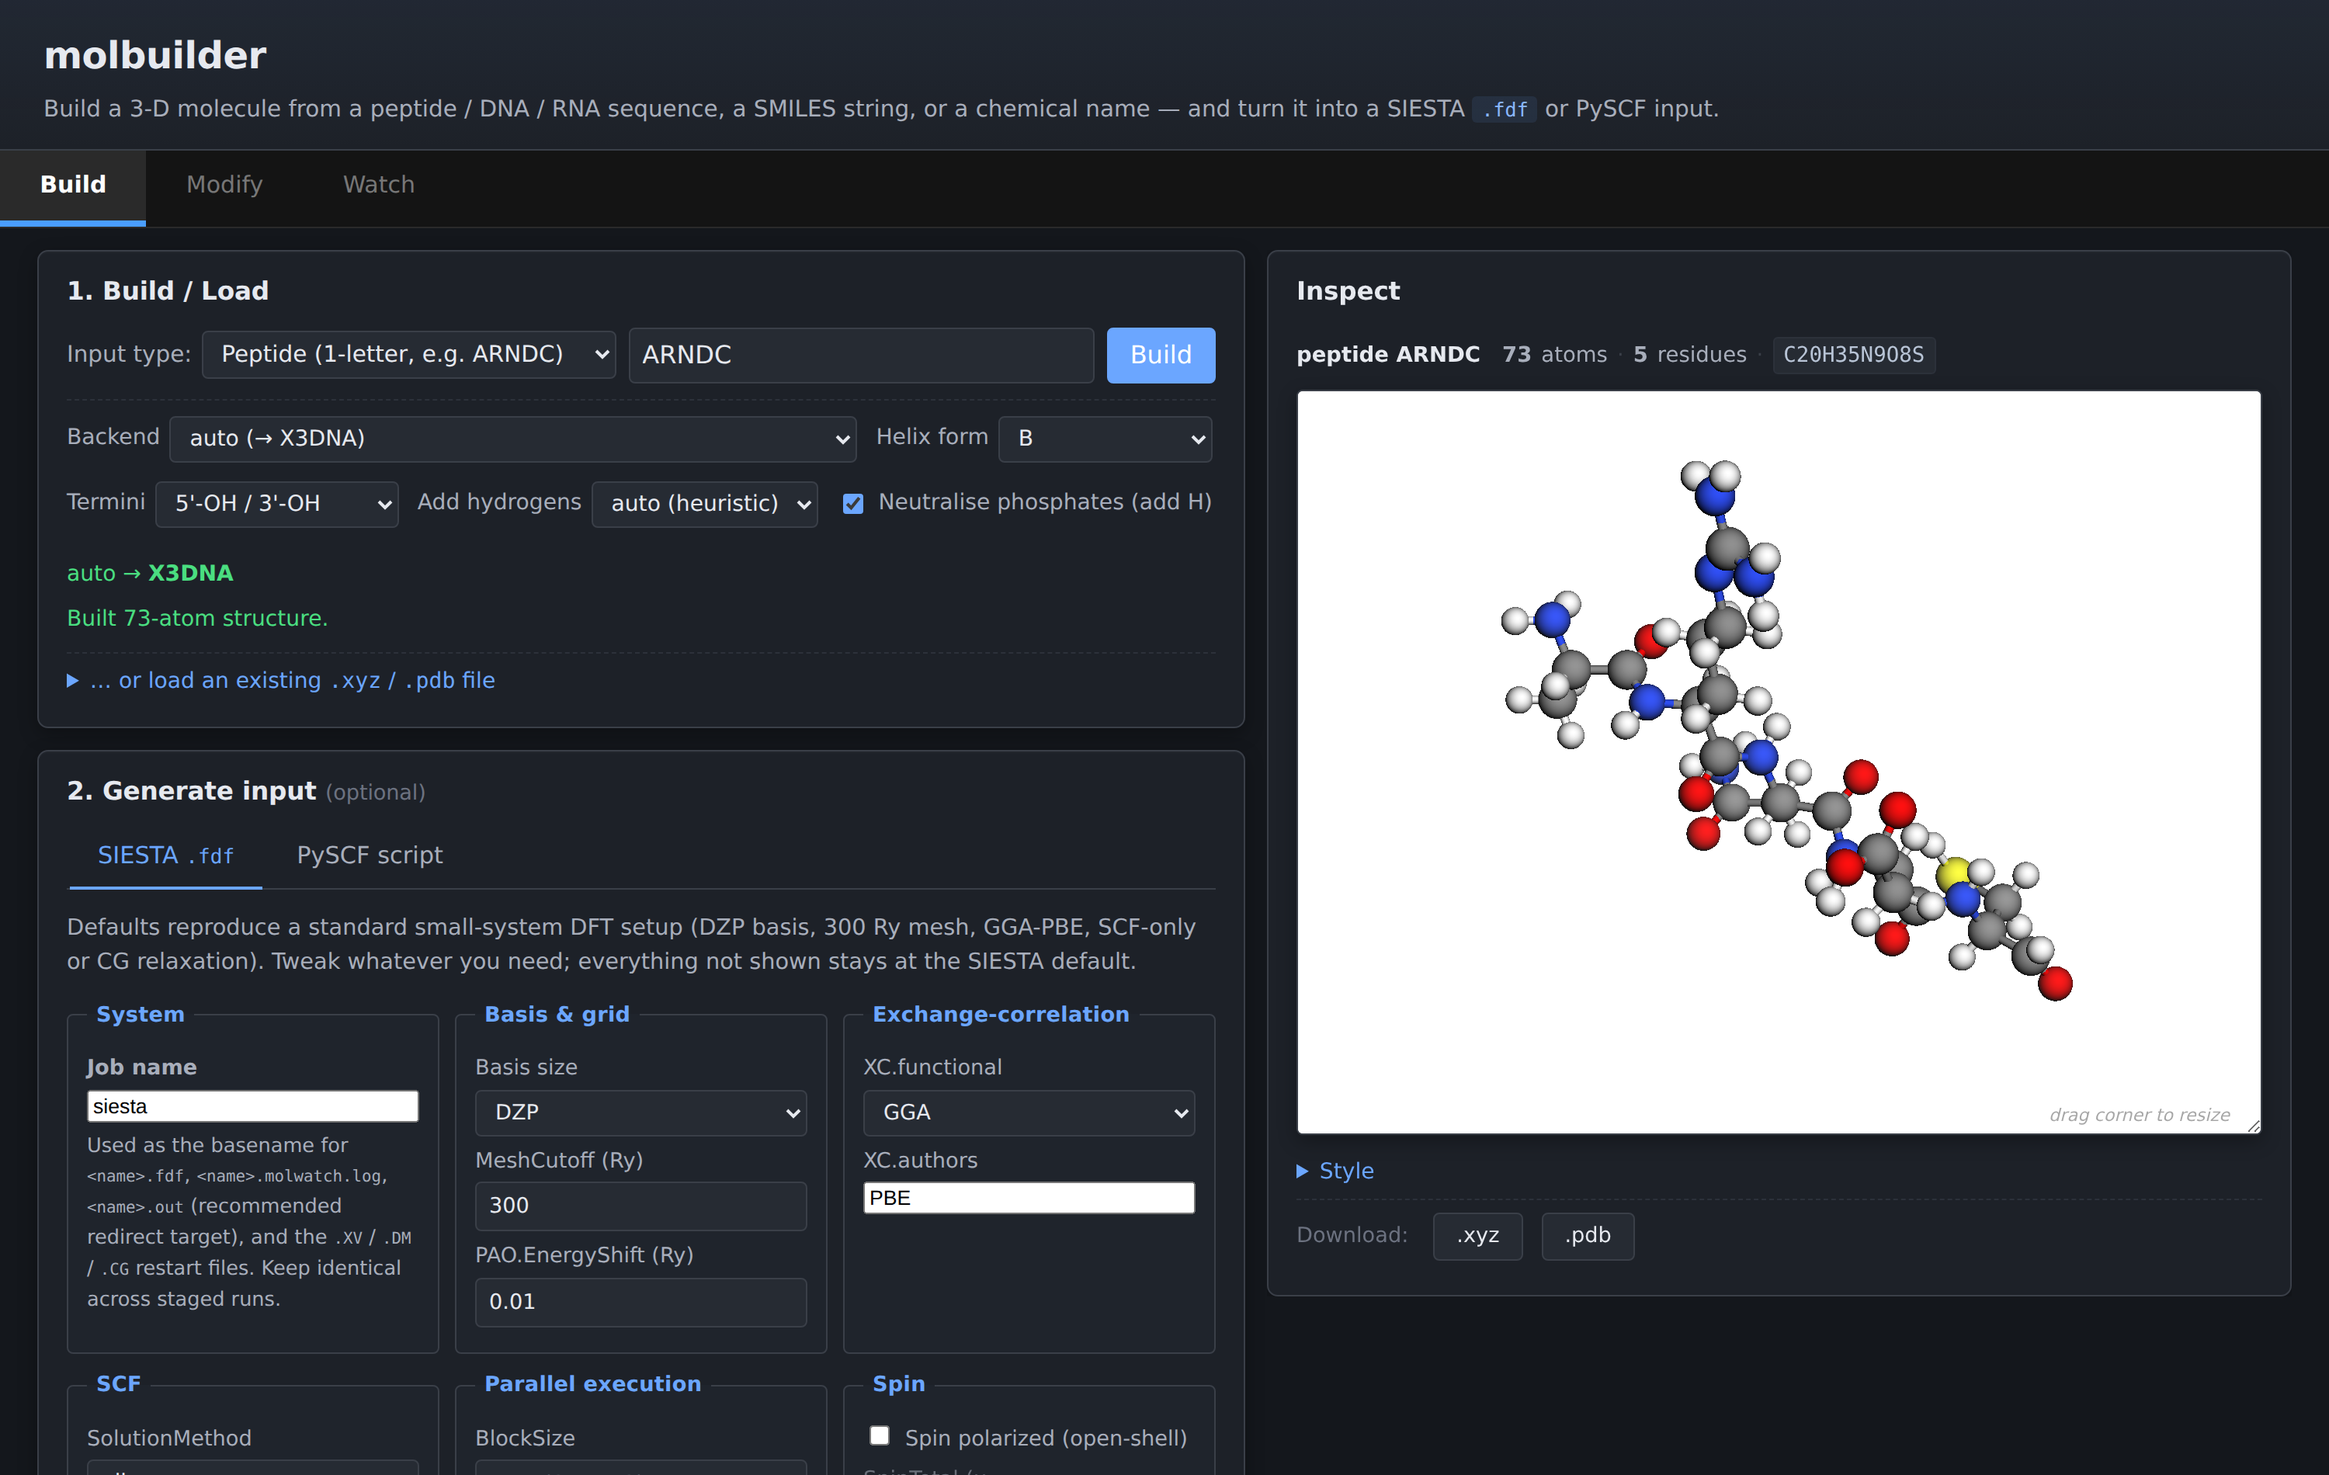
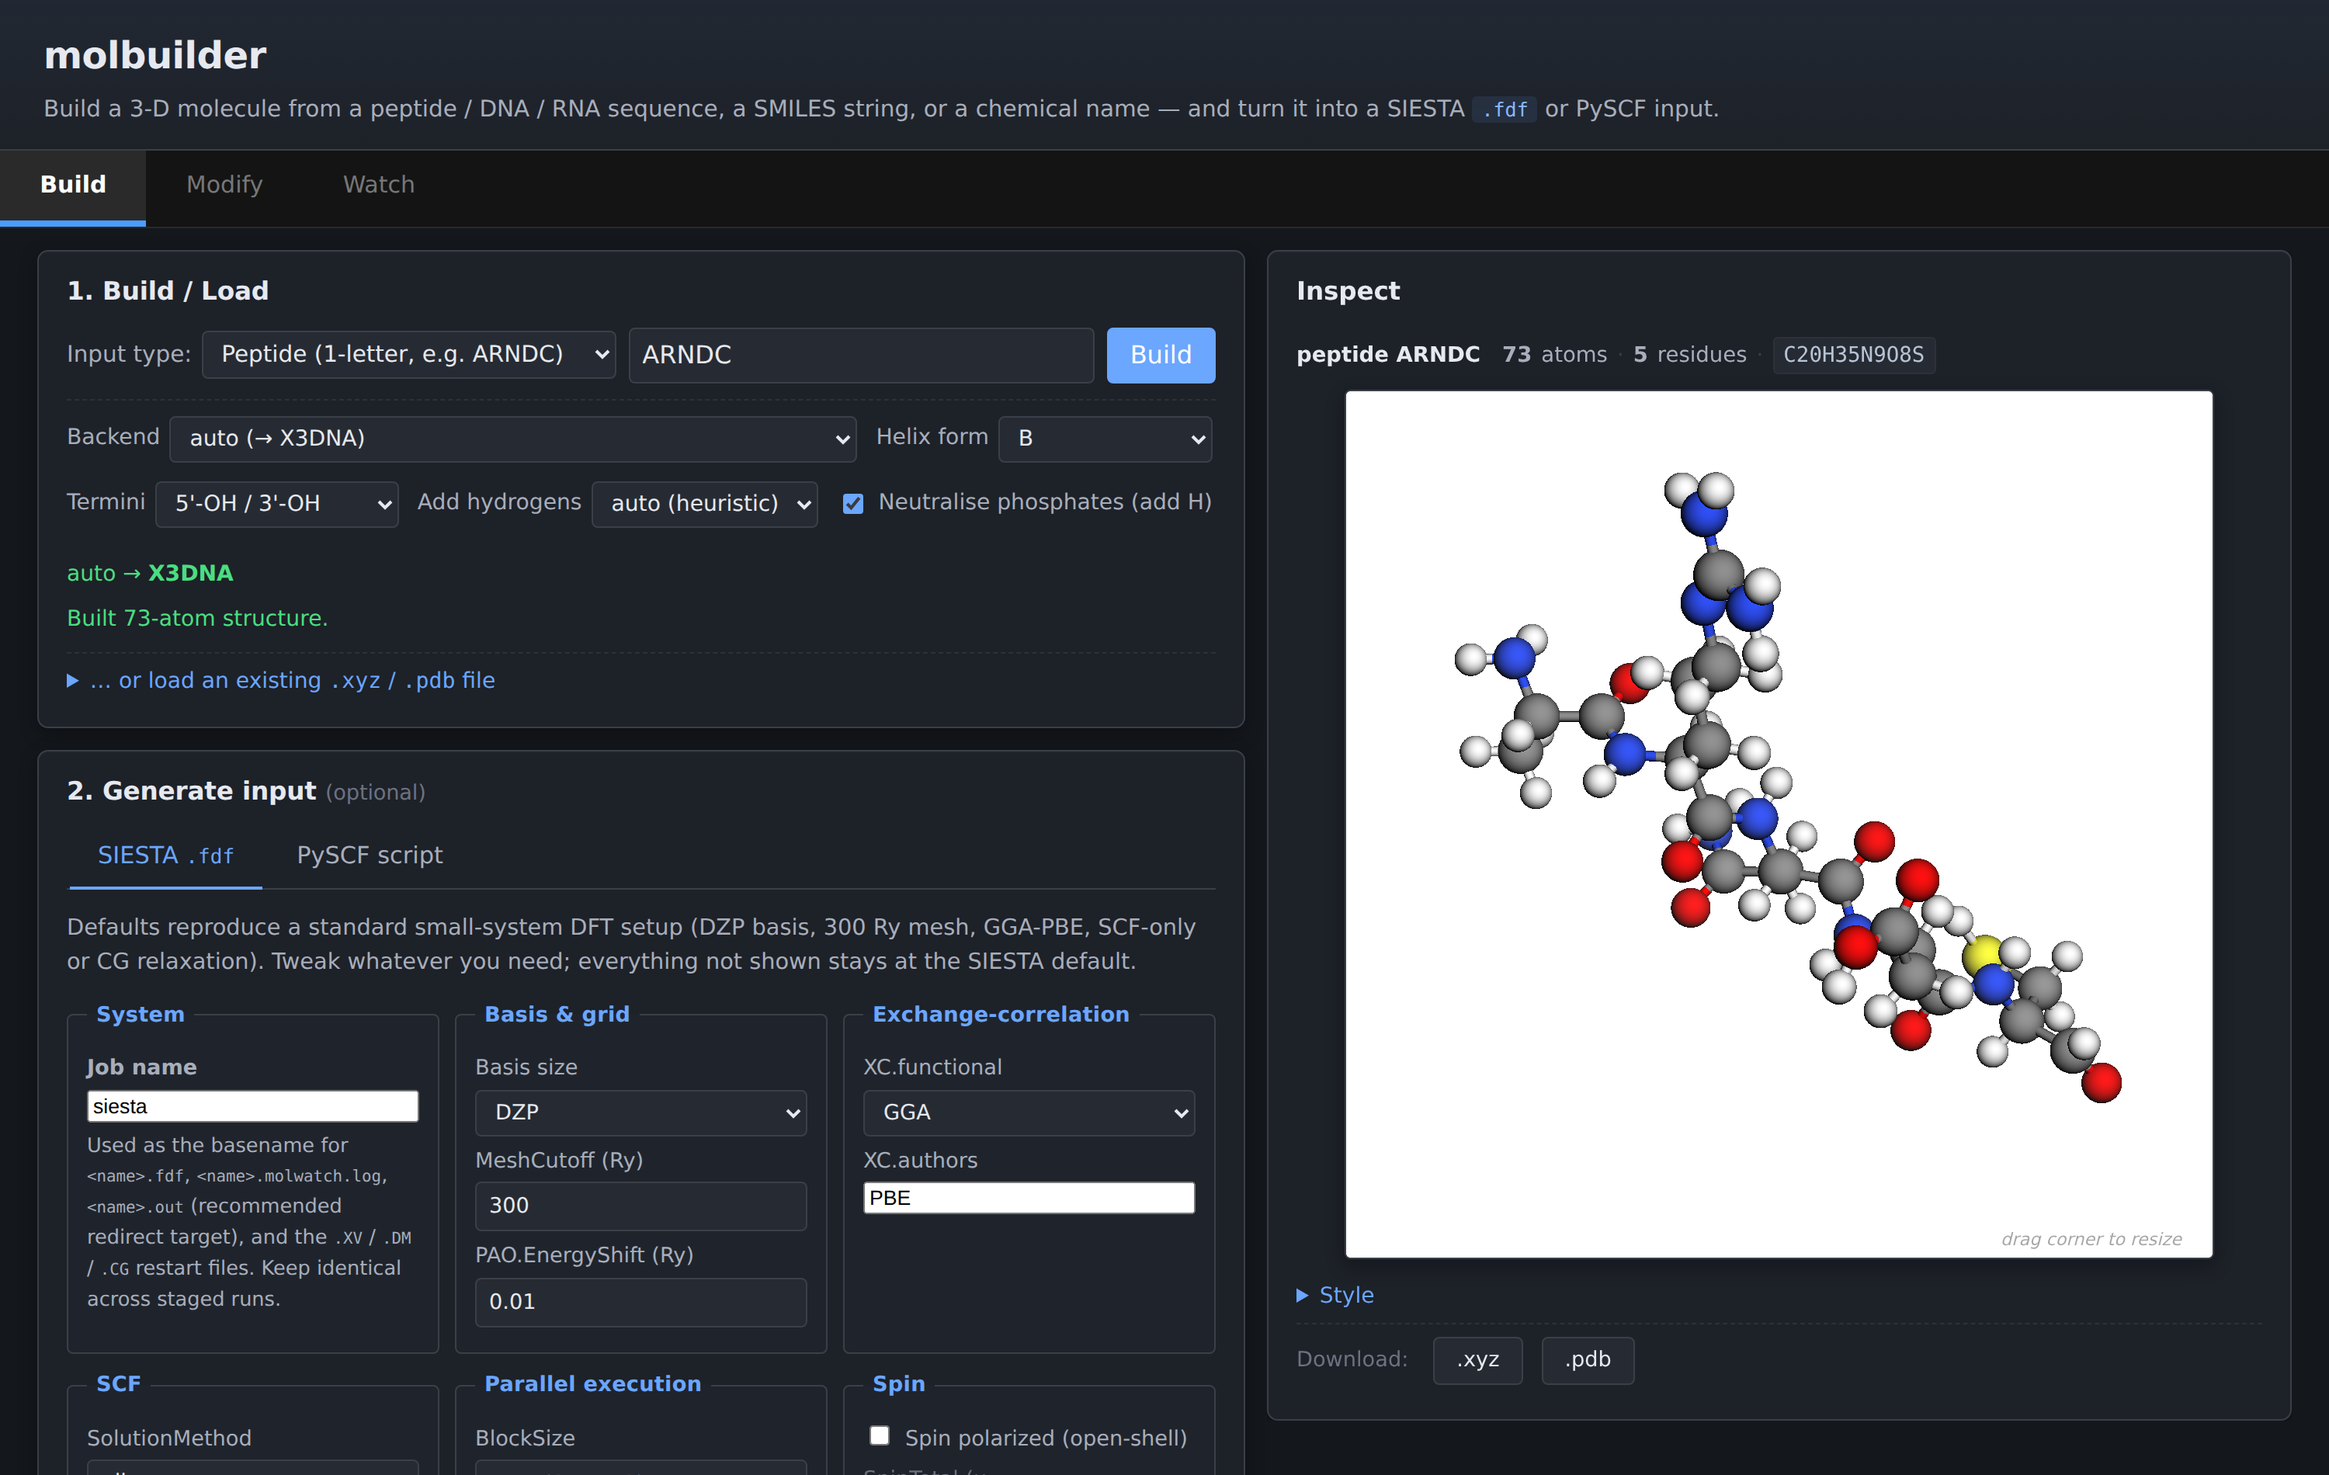
UI: 1-based atom indices everywhere; square viewers (1:1, 320-560 px)
Two consistency issues the user spotted, fixed together.

Atom indexing (1-based across the board)
---------------------------------------
Before:
- Watch Overlays: 1-based ``i + 1`` labels
- Watch Inspect list: 0-based ``i``                  <- inconsistent
- Modify viewer overlay: 0-based ``i``               <- inconsistent
- Modify atom-list table: 0-based ``${i}``           <- inconsistent
- Modify selection readout: 0-based ``#${i}``        <- inconsistent
- Modify selection-info row: 0-based ``${i}``        <- inconsistent
- Modify anchor / orient / electrode readouts: 0-based <- inconsistent
- Build viewer overlay: 1-based

Now every user-facing index across Build / Modify / Watch is
1-based -- matches the Build overlay, matches PDB / SIESTA
convention, matches what tools the user is likely cross-referencing
against.  The Python API + wire JSON stay 0-based (anchor_index,
indices: [...], atom.serial, state.selected, dataset.atomIndex);
the JS UI converts at the boundary with ``i + 1`` exactly at the
display site.

Updated tests: ``test_clicking_row_highlights_row_and_viewer``
asserts "#2 H" instead of "#1 H" (0-based atom 1 -> displayed 2);
``test_selection_info_panel_shows_picked_atom_coords`` asserts the
# column shows "2" instead of "1"; ``test_orient_button_enabled..."
expects "#1" and "#3" instead of "#0" and "#2".

Spec docs/spec/modify-tab.md § "Data model invariants" rewritten:
"0-based in the Python API and the wire JSON; 1-based on every
[…]

Changed region(s): [[0.558, 0.2484, 0.992, 0.9316], [0.62, 0.9005, 0.651, 0.9316]]

diff --git a/molbuilder/web/static/modify/viewer.js b/molbuilder/web/static/modify/viewer.js
@@ -116,10 +116,15 @@
         clearIndexLabels();
         if (!$("show-indices").checked) return;
         // 3Dmol's selectedAtoms returns the atom records (with x/y/z and
-        // serial).  Label every atom with its 0-based index.
+        // serial).  Label every atom with its 1-based index (matches
+        // the atom-list table, the selection-info table, the Build
+        // viewer's overlay, and PDB/SIESTA conventions).  The Python
+        // API uses 0-based indices; we convert at the UI boundary
+        // (see ``onViewerAtomClick`` for the click->state.selected
+        // direction).
         const atoms = viewer.selectedAtoms({});
         atoms.forEach((a, i) => {
-            const lbl = viewer.addLabel(String(i), {
+            const lbl = viewer.addLabel(String(i + 1), {
                 position: { x: a.x, y: a.y, z: a.z },
                 backgroundColor: "rgba(0,0,0,0.55)",
                 fontColor: "white",
@@ -267,9 +272,14 @@
         tbody.innerHTML = "";
         for (let i = 0; i < state.n_atoms; i++) {
             const tr = document.createElement("tr");
+            // Internal: ``dataset.atomIndex`` stays 0-based (matches
+            // 3Dmol's atom.serial, the Python API's anchor_index,
+            // and ``state.selected``).  The DISPLAYED ``#`` column
+            // is 1-based to match PDB / SIESTA convention and the
+            // viewer overlay.  Click handler uses the 0-based int.
             tr.dataset.atomIndex = String(i);
             tr.innerHTML = `
-                <td class="col-idx">${i}</td>
+                <td class="col-idx">${i + 1}</td>
                 <td class="col-el">${state.elements[i] || ""}</td>
                 <td class="col-name">${state.atom_names[i] || ""}</td>
                 <td class="col-res">${formatResidue(i)}</td>
@@ -308,7 +318,11 @@
         if (!sel.length) {
             out.textContent = "No atoms selected.";
         } else {
-            const parts = sel.map((i) => `#${i} ${state.elements[i]}`);
+            // User-facing labels are 1-based (matches the atom-list
+            // table, the viewer overlay, and PDB/SIESTA convention).
+            const parts = sel.map(
+                (i) => `#${i + 1} ${state.elements[i]}`
+            );
             out.textContent = parts.join(", ");
         }
         const infoTable = $("selection-info");
@@ -321,7 +335,7 @@
                     const p  = state.positions[i] || [0, 0, 0];
                     const tr = document.createElement("tr");
                     tr.innerHTML = `
-                        <td class="col-idx">${i}</td>
+                        <td class="col-idx">${i + 1}</td>
                         <td class="col-el">${state.elements[i] || ""}</td>
                         <td class="col-name">${state.atom_names[i] || ""}</td>
                         <td class="col-res">${formatResidue(i)}</td>
@@ -353,7 +367,7 @@
                 const a = sel[0];
                 addBtn.disabled = locked;
                 anchorReadout.textContent =
-                    `Anchor: #${a} ${state.elements[a]}`;
+                    `Anchor: #${a + 1} ${state.elements[a]}`;
             } else {
                 addBtn.disabled = true;
                 anchorReadout.textContent =
@@ -370,8 +384,8 @@
                 const [a, b] = sel.slice().sort((x, y) => x - y);
                 orientBtn.disabled = locked;
                 orientReadout.textContent =
-                    `Anchors: #${a} ${state.elements[a]} → ` +
-                    `#${b} ${state.elements[b]}`;
+                    `Anchors: #${a + 1} ${state.elements[a]} → ` +
+                    `#${b + 1} ${state.elements[b]}`;
             } else {
                 orientBtn.disabled = true;
                 orientReadout.textContent =
@@ -403,7 +417,7 @@
                 if (sel.length === 1) {
                     elcBtn.disabled = locked;
                     elcReadout.textContent =
-                        `Anchor: #${sel[0]} ${state.elements[sel[0]]}.  ` +
+                        `Anchor: #${sel[0] + 1} ${state.elements[sel[0]]}.  ` +
                         `Side determines which face the slab grows on.`;
                 } else {
                     elcBtn.disabled = true;
@@ -422,8 +436,8 @@
                 } else if (sel.length === 2) {
                     const [a, b] = sel.slice().sort((x, y) => x - y);
                     elcReadout.textContent =
-                        `Legacy mode: slabs flank #${a} ${state.elements[a]} `
-                        + `↔ #${b} ${state.elements[b]} `
+                        `Legacy mode: slabs flank #${a + 1} ${state.elements[a]} `
+                        + `↔ #${b + 1} ${state.elements[b]} `
                         + "(midpoint of the two anchors).";
                 } else {
                     elcBtn.disabled = true;

diff --git a/molbuilder/web/static/watch/viewer.js b/molbuilder/web/static/watch/viewer.js
@@ -370,7 +370,9 @@
         const fmt = (idx) => {
             const r = frame[idx];
             if (!r) return "—";
-            return "#" + idx + " " + r[0]
+            // Display 1-based to match the Overlays tab's index labels
+            // and the atom-list table; internal idx stays 0-based.
+            return "#" + (idx + 1) + " " + r[0]
                 + "  (" + r[1].toFixed(3)
                 + ", " + r[2].toFixed(3)
                 + ", " + r[3].toFixed(3) + ") Å";
@@ -451,9 +453,12 @@
         for (let i = 0; i < frame.length; i++) {
             const r = frame[i];
             const tr = document.createElement("tr");
+            // dataset.atomIndex stays 0-based (matches state.pickedAtoms
+            // and 3Dmol's atom.serial); the displayed ``#`` column is
+            // 1-based to match the overlay labels in the Overlays tab.
             tr.dataset.atomIndex = String(i);
             tr.innerHTML =
-                '<td class="col-idx">' + i + '</td>' +
+                '<td class="col-idx">' + (i + 1) + '</td>' +
                 '<td class="col-el">'  + (r[0] || "?") + '</td>' +
                 '<td class="col-coord">' + r[1].toFixed(2) + '</td>' +
                 '<td class="col-coord">' + r[2].toFixed(2) + '</td>' +

diff --git a/molbuilder/web/static/style.css b/molbuilder/web/static/style.css
@@ -377,17 +377,20 @@ button.primary:disabled,
     border: 1px solid var(--border-soft);
 }
 
-/* Resizable viewer container -- 3Dmol canvas lives inside.
- * We deliberately render the canvas with its own background so the
- * dark UI doesn't shine through (chemistry viewers are usually nicer
- * against a neutral bg). */
+/* Fixed-aspect viewer container -- 3Dmol canvas lives inside.  The
+ * 1:1 aspect ratio is consistent across Build / Modify / Watch so
+ * the user gets a predictable square no matter which tab they're on;
+ * min-height / max-height keep the panel in a comfortable navigation
+ * range (never tiny, never dominates the viewport).  We deliberately
+ * render the canvas with a neutral background so the dark UI doesn't
+ * shine through (chemistry viewers read better against white).  */
 .viewer-wrap {
     width: 100%;
-    height: 480px;
+    max-width: 560px;
+    aspect-ratio: 1 / 1;
     min-height: 320px;
-    min-width: 280px;
-    max-width: 100%;
-    resize: both;
+    max-height: min(60vh, 560px);
+    margin: 0 auto;
     overflow: hidden;
     border: 1px solid var(--border-strong);
     border-radius: var(--radius-sm);

diff --git a/molbuilder/web/static/watch/style.css b/molbuilder/web/static/watch/style.css
@@ -148,9 +148,17 @@ main {
     align-items: start;
 }
 
+/* Square viewer, consistent with Build + Modify (aspect-ratio 1:1,
+ * 320 - 560 px clamped to 60vh).  The right-hand .controls aside
+ * tracks the same vertical extent so the two panels align top + bot.
+ */
 #viewer {
     width: 100%;
-    height: var(--viewer-height);
+    max-width: 560px;
+    aspect-ratio: 1 / 1;
+    min-height: 320px;
+    max-height: min(60vh, 560px);
+    margin: 0 auto;
     border: 1px solid var(--border-strong);
     background: #ffffff;         /* same white bg as builder's viewer-wrap */
     position: relative;
@@ -165,7 +173,12 @@ main {
     display: flex;
     flex-direction: column;
     gap: 0;
+    /* Match the viewer's height clamp so the right aside aligns with
+     * the square viewer panel.  ``--viewer-height`` is kept as the
+     * legacy variable name; value is the same min(60vh, 560px). */
     height: var(--viewer-height);
+    min-height: 320px;
+    max-height: min(60vh, 560px);
     background: var(--bg-card);
     border: 1px solid var(--border-strong);
     border-radius: var(--radius);

diff --git a/molbuilder/web/static/modify/style.css b/molbuilder/web/static/modify/style.css
@@ -209,9 +209,16 @@ header .tagline {
 
 /* ---- Viewer (middle) ---- */
 .viewer-card { gap: 0; }
+/* Square viewer, consistent with Build + Watch (aspect-ratio 1:1,
+ * 320 - 560 px clamped to 60vh).  Sits in the centre column of the
+ * .modify-grid; centred horizontally when the container is wider. */
 .viewer-card #viewer.viewer {
-    flex: 1 1 auto;
-    min-height: 380px;
+    width: 100%;
+    max-width: 560px;
+    aspect-ratio: 1 / 1;
+    min-height: 320px;
+    max-height: min(60vh, 560px);
+    margin: 0 auto;
     position: relative;
     background: white;
 }

diff --git a/tests/test_modify_e2e.py b/tests/test_modify_e2e.py
@@ -215,7 +215,8 @@ def test_clicking_row_highlights_row_and_viewer(
     )
     assert selected == [1]
     # The selection readout in the right panel reflects the pick.
-    assert "#1 H" in page.locator("#selection-readout").inner_text()
+    # User-facing labels are 1-based: 0-based atom 1 -> "#2".
+    assert "#2 H" in page.locator("#selection-readout").inner_text()
 
 
 def test_shift_click_multi_select(
@@ -569,7 +570,8 @@ def test_selection_info_table_shows_atom_details(
     rows = page.locator("#selection-info-body tr")
     assert rows.count() == 1
     cells = rows.first.locator("td")
-    assert cells.nth(0).inner_text() == "1"          # index
+    # Displayed index is 1-based; 0-based atom 1 -> "2".
+    assert cells.nth(0).inner_text() == "2"          # 1-based index
     assert cells.nth(1).inner_text() == "H"          # element
     # Coordinates -- formatted as f"{v:.3f}".
     assert cells.nth(4).inner_text() == "0.957"
@@ -733,9 +735,10 @@ def test_orient_button_enabled_only_with_two_anchors(
     assert btn.is_disabled(), "one selection -> still disabled"
     page.locator("#atom-list-body tr").nth(2).click(modifiers=["Shift"])
     assert btn.is_enabled(), "two selections -> Orient enabled"
-    # Anchor readout reflects both atoms.
+    # Anchor readout reflects both atoms.  Displayed labels are 1-based;
+    # 0-based atoms 0 and 2 -> "#1" and "#3".
     readout = page.locator("#orient-anchor-readout").inner_text()
-    assert "#0" in readout and "#2" in readout
+    assert "#1" in readout and "#3" in readout
     # Adding a third disables again.
     page.locator("#atom-list-body tr").nth(1).click(modifiers=["Shift"])
     assert btn.is_disabled(), "three selections -> Orient disabled"

diff --git a/docs/spec/modify-tab.md b/docs/spec/modify-tab.md
@@ -613,8 +613,14 @@ The UI shows them in an issues panel mirroring the Build tab's design.
 * **Electrode atoms** carry `residue_name = "ELC"` and `atom_name = element`
   so they're trivially separable from molecule atoms (e.g. by
   `select(residue_name="ELC")` later).
-* **Anchor indices are 0-based** in the Python API; the UI shows them
-  1-based to match the existing atom-index labels in the viewer.
+* **Atom indices are 0-based in the Python API and the wire JSON**
+  (`anchor_index`, `indices: [...]`, etc.).  Every **user-facing**
+  surface (atom-list table, selection readout, selection-info table,
+  viewer overlay labels, error messages quoting an atom) is **1-based**
+  -- matching PDB / SIESTA conventions and the Watch tab's overlay.
+  The JS UI converts at the boundary: `tr.dataset.atomIndex` stays
+  0-based for click handlers and state.selected; the displayed `#`
+  column adds 1.  Build / Modify / Watch all follow this rule.
 
 ### 5.1 Cross-tab persistence (Phase 1)
 
